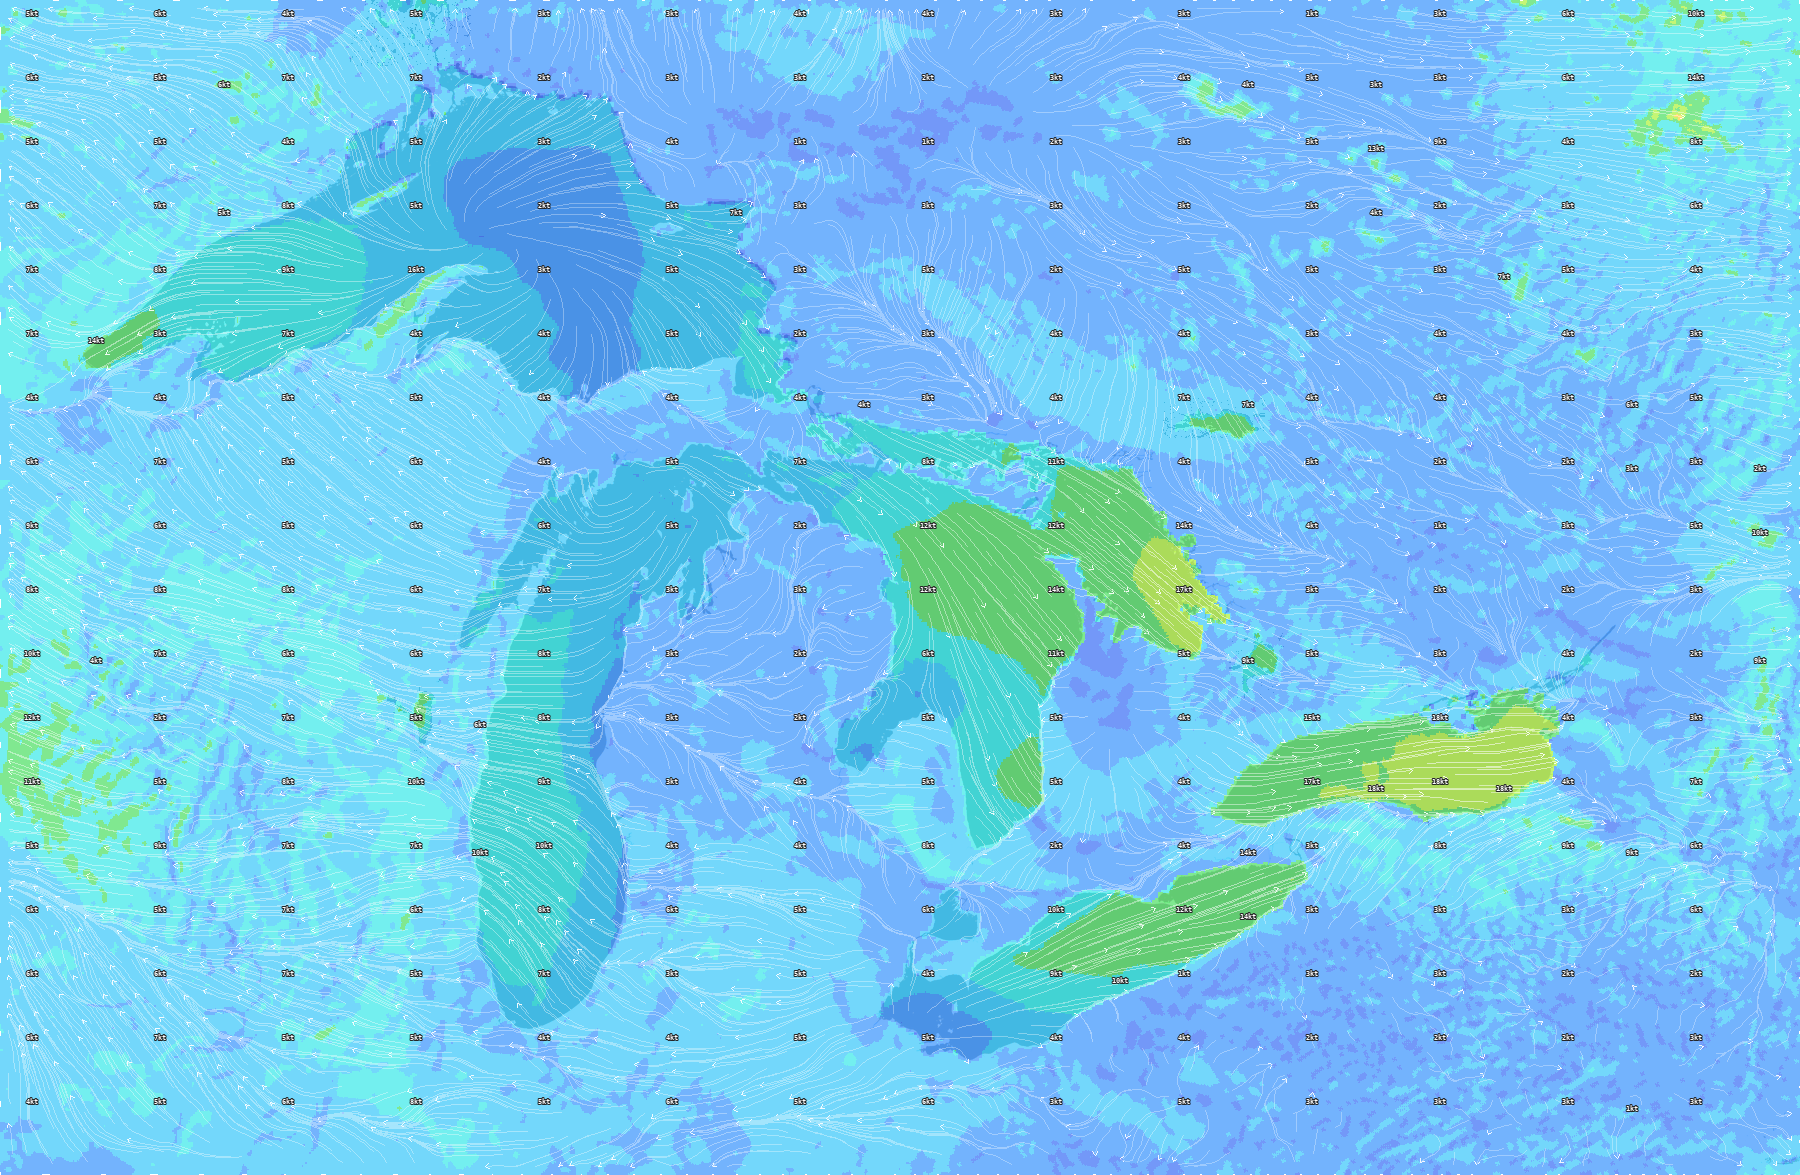
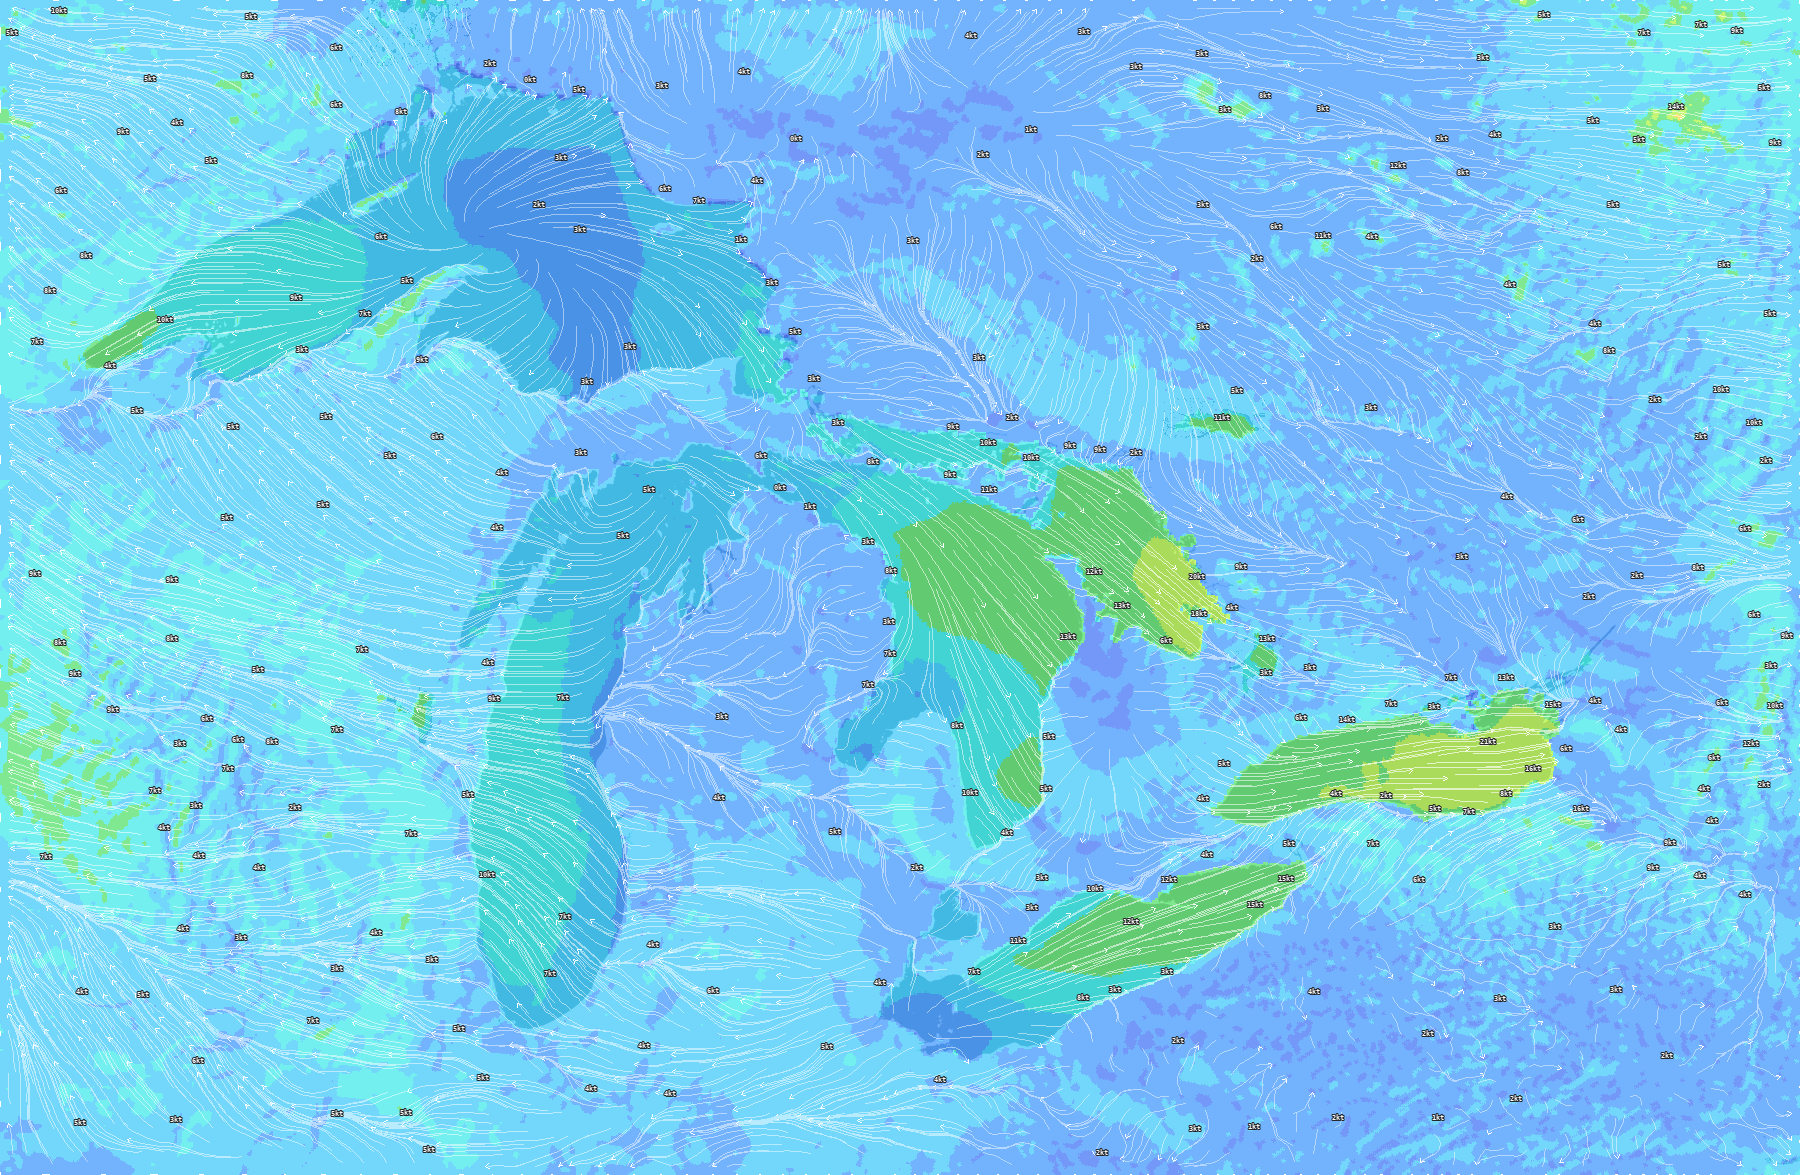
Wind: free-floating kt labels (data-seeded) + whiter streaks/heads

diff --git a/scripts/build_wind.py b/scripts/build_wind.py
@@ -68,11 +68,12 @@ BUOY_POS = {  # NDBC (lon, lat) — QC reference only
 # Full-basin render generation: bump to force one redeploy of the expanded
 # (GLWU+HRRR, no shoreline cut) raster even when the GLWU cycle is unchanged.
 # Afterwards the source id tracks both model cycles.
-# g6 = streamlet direction streaks (surface-current technique, brightness =
+# g7 = streamlet direction streaks (surface-current technique, brightness =
 # wind speed) + actual knot values in the same halo style (was: lattice
 # arrows, no values). New token by construction so caches cannot serve
 # the old pixels under the old URL.
-RENDER_TAG = "fullbasin-g6-streamkt"
+# g8 = free (data-seeded, non-grid) label placement + whiter streaks/heads.
+RENDER_TAG = "fullbasin-g8-freelabels"
 
 # Inland lakes that read as LAND in the shared NOAA shoreline mask (which
 # covers the five Great Lakes) but get the full 80% water treatment here:
@@ -420,7 +421,7 @@ def paint_wind_streamlets(rgba, uu, vv, kt_field, seed_step=20,
                    for (y, x, _a, _b) in path[::4]
                    if np.isfinite(kt_field[int(y), int(x)])]
             kt = sum(kts) / len(kts) if kts else 0.0
-            alpha = int(round(70 + 130 * min(1.0, max(0.0, kt) / 35.0)))
+            alpha = int(round(110 + 110 * min(1.0, max(0.0, kt) / 35.0)))
             d.line(pts, fill=(255, 255, 255, alpha), width=line_width)
             n_lines += 1
             accepted += 1
@@ -434,7 +435,7 @@ def paint_wind_streamlets(rgba, uu, vv, kt_field, seed_step=20,
                     d.line([(x, y),
                             (x + math.cos(ha) * head_len,
                              y + math.sin(ha) * head_len)],
-                           fill=(255, 255, 255, head_alpha), width=1)
+                           fill=(255, 255, 255, 255), width=1)
                 n_heads += 1
     del d
     out = Image.alpha_composite(base, overlay)
@@ -442,22 +443,53 @@ def paint_wind_streamlets(rgba, uu, vv, kt_field, seed_step=20,
 
 
 def paint_wind_labels(rgba, kt_field, label_every=2, extra_step=64,
-                      extra_thresh_kt=4.0, font_size=7):
+                      extra_thresh_kt=4.0, font_size=7, max_labels=260):
     """Actual knot values in the wave-label style: white mono + dark stroke.
 
-    Minimal density: every `label_every`-th coarse anchor plus extras where
-    the wind changes sharply (>= extra_thresh_kt), with box-collision
-    avoidance. Returns (rgba, n_anchor, n_extra).
+    NO fixed grid: candidates come from a data-seeded jittered lattice, so
+    positions move with the weather instead of sitting on a rigid lattice.
+    High-change cells (fronts/gust gradients) go first with tight spacing;
+    the rest fill a quota with wide spacing. Box-collision avoidance
+    throughout. Returns (rgba, n_priority, n_fill).
     """
     H, W = kt_field.shape
     img = Image.fromarray(rgba, mode="RGBA")
     d = ImageDraw.Draw(img)
     font = _wind_label_font(font_size)
-    anchors = [(r, c) for r in range(32, H - 8, 64)
-               for c in range(32, W - 8, 64)
-               if np.isfinite(kt_field[r, c]) and rgba[r, c, 3] > 0]
+    ok = np.isfinite(kt_field)
+    if not ok.any():
+        del d
+        return np.array(img), 0, 0
+    # deterministic-per-data seed: same field -> same layout (no flicker
+    # between rebuilds of one cycle); new weather -> new positions.
+    _fin = kt_field[ok]
+    seed = int(abs(float(_fin.mean())) * 1000 + float(_fin.std()) * 97) \
+        % (2 ** 32 - 1)
+    rng = np.random.default_rng(seed)
+    # local change map (12 px neighborhood max abs diff)
+    grad = np.zeros(kt_field.shape)
+    for dr, dc in ((-12, 0), (12, 0), (0, -12), (0, 12)):
+        shifted = np.roll(kt_field, shift=(-dr, -dc), axis=(0, 1))
+        diff = np.abs(kt_field - shifted)
+        both = ok & np.isfinite(shifted)
+        grad = np.maximum(grad, np.where(both, diff, 0.0))
+    # jittered candidates on a fine lattice (no visible grid)
+    step = 32
+    cand = []
+    for r0 in range(0, H, step):
+        for c0 in range(0, W, step):
+            r = r0 + step / 2.0 + (rng.random() - 0.5) * step * 0.9
+            c = c0 + step / 2.0 + (rng.random() - 0.5) * step * 0.9
+            r, c = int(round(r)), int(round(c))
+            if not (8 <= r < H - 8 and 8 <= c < W - 8):
+                continue
+            if not ok[r, c] or rgba[r, c, 3] == 0:
+                continue
+            cand.append((grad[r, c], rng.random(), r, c))
+    # priority first (sharp change), then fill in random order
+    cand.sort(key=lambda t: (-t[0], t[1]))
     placed = []
-    n_anchor = n_extra = 0
+    n_priority = n_fill = 0
 
     def _collides(x0, y0, x1, y1, pad=3):
         for (a0, b0, a1, b1) in placed:
@@ -465,7 +497,7 @@ def paint_wind_labels(rgba, kt_field, label_every=2, extra_step=64,
                 return True
         return False
 
-    def _put(cx, cy, text):
+    def _put(cx, cy, text, sep):
         tw = d.textlength(text, font=font)
         th = font_size + 4
         x = cx - tw / 2
@@ -474,6 +506,11 @@ def paint_wind_labels(rgba, kt_field, label_every=2, extra_step=64,
             return False
         if _collides(x, y, x + tw, y + th):
             return False
+        # separation from other labels (wide for fill, tight for fronts)
+        for (a0, b0, a1, b1) in placed:
+            acx, acy = (a0 + a1) / 2, (b0 + b1) / 2
+            if math.hypot(acx - cx, acy - cy) < sep:
+                return False
         pts = [(cx, cy), (x + 2, y + 2), (x + tw - 2, y + 2)]
         for px, py in pts:
             ix, iy = int(np.clip(round(px), 0, W - 1)), int(np.clip(round(py), 0, H - 1))
@@ -486,40 +523,29 @@ def paint_wind_labels(rgba, kt_field, label_every=2, extra_step=64,
         placed.append((x, y, x + tw, y + th))
         return True
 
-    for i, (r, c) in enumerate(anchors):
-        if (i % label_every) != 0:
-            continue
+    for g, _, r, c in cand:
+        if n_priority + n_fill >= max_labels:
+            break
+        if g < extra_thresh_kt:
+            break  # remaining candidates are all low-change: fill pass next
         v = float(kt_field[r, c])
-        if not (np.isfinite(v) and 0.0 <= v <= 120.0):
+        if not (0.0 <= v <= 120.0):
             continue
-        if _put(c, r - 17, f"{v:.0f}kt"):
-            n_anchor += 1
-
-    ok = np.isfinite(kt_field)
-    if ok.any():
-        grad = np.full(kt_field.shape, np.nan)
-        for dr, dc in ((-12, 0), (12, 0), (0, -12), (0, 12)):
-            shifted = np.roll(kt_field, shift=(-dr, -dc), axis=(0, 1))
-            diff = np.abs(kt_field - shifted)
-            both = ok & np.isfinite(shifted)
-            g = np.where(both, diff, 0.0)
-            grad = np.where(np.isnan(grad), g, np.maximum(grad, g))
-        for r in range(extra_step // 2, H, extra_step):
-            for c in range(extra_step // 2, W, extra_step):
-                if not np.isfinite(kt_field[r, c]):
-                    continue
-                if rgba[r, c, 3] == 0:
-                    continue
-                if not (grad[r, c] >= extra_thresh_kt):
-                    continue
-                if _collides(c - 20, r - 26, c + 20, r - 8):
-                    continue
-                v = float(kt_field[r, c])
-                if _put(c, r - 10, f"{v:.0f}kt"):
-                    n_extra += 1
+        if _put(c, r - 12, f"{v:.0f}kt", sep=30):
+            n_priority += 1
+    rest = [t for t in cand if t[0] < extra_thresh_kt]
+    rng.shuffle(rest)
+    for _, _, r, c in rest:
+        if n_priority + n_fill >= max_labels:
+            break
+        v = float(kt_field[r, c])
+        if not (0.0 <= v <= 120.0):
+            continue
+        if _put(c, r - 12, f"{v:.0f}kt", sep=48):
+            n_fill += 1
 
     del d
-    return np.array(img), n_anchor, n_extra
+    return np.array(img), n_priority, n_fill
 
 
 def fetch_hrrr_uv():
